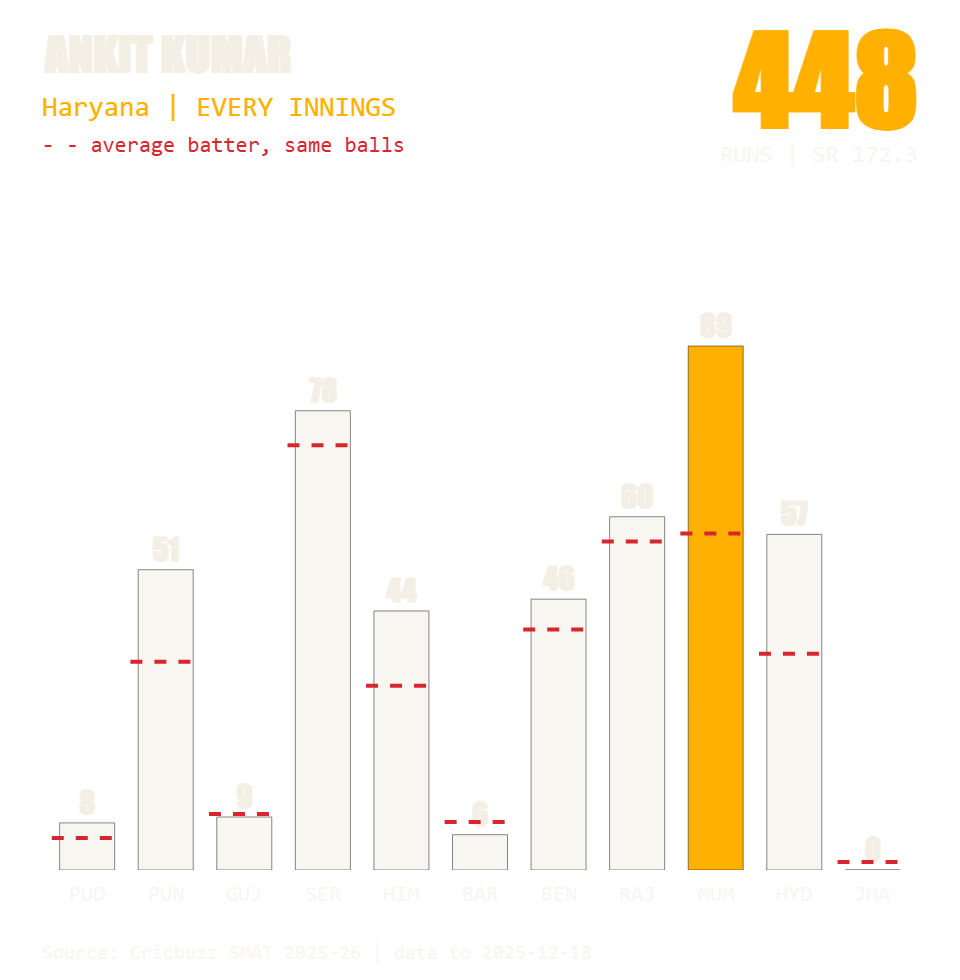
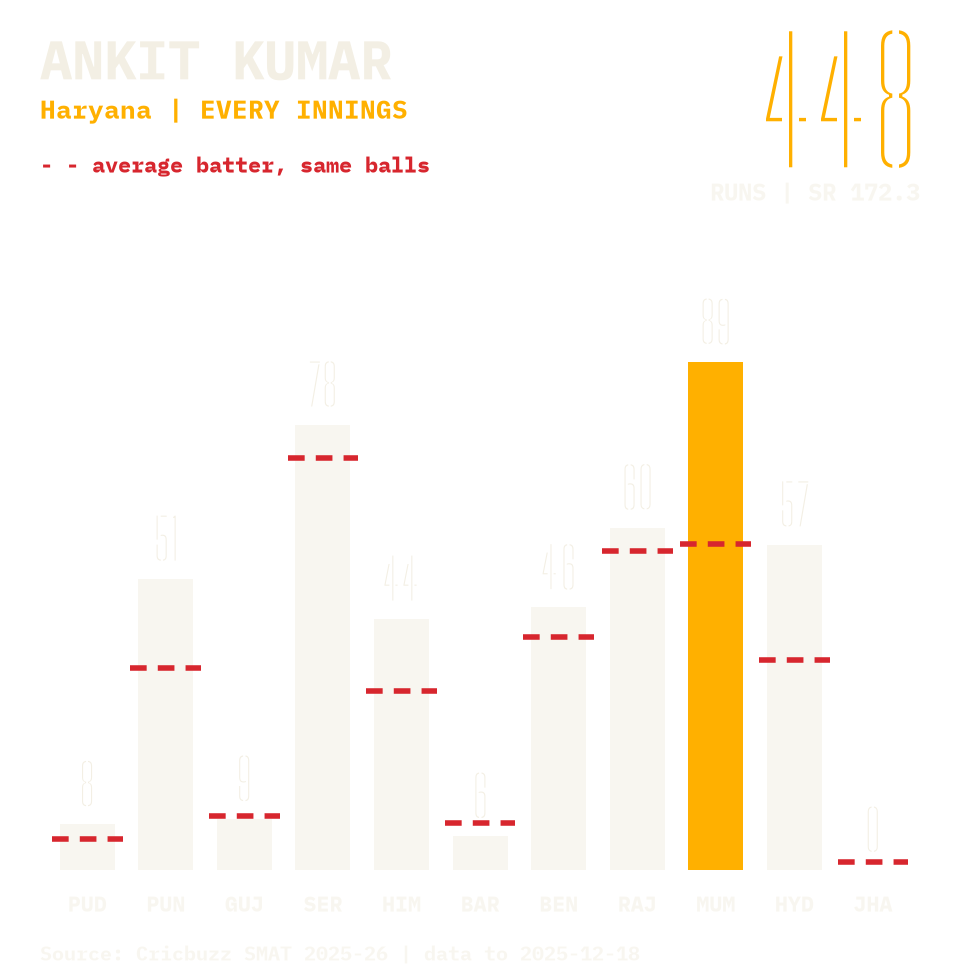
scouting charts: matplotlib + reel TTFs (shared Canvas in viz/match_reel), same CLI and outputs

diff --git a/src/cricket_analytics/scouting/charts.py b/src/cricket_analytics/scouting/charts.py
@@ -1,18 +1,16 @@
 """Reel PNGs for SMAT scouting: scout_innings (a player's innings in date order) and scout_rank (top 10 uncapped).
-Transparent, 960x980 by default. palette = {bg, ink, a1, a2}: ink text, a1 highlight, a2 second series, bg text on a1 bars."""
+Transparent, 960x980 by default, drawn with matplotlib + the reel TTFs (viz/match_reel.Canvas). palette = {bg, ink, a1, a2}: ink text, a1 highlight, a2 second series, bg text on a1 bars."""
 import json
 from pathlib import Path
 
+import matplotlib.colors as mc
 import pandas as pd
-import plotly.graph_objects as go
 
-from ..viz.video import AMBER, INK, MUTE, RED, num, short_name
+from ..viz.match_reel import PX, Canvas
+from ..viz.video import AMBER, INK, RED, num, short_name
 from . import reels
 from .smat2025 import ROOT
 
-# Fonts: families are tried in order; TTFs live in Edit Pipeline/assets/fonts (not installed system-wide => fallback renders).
-NUM_FONT = "Big Shoulders Stencil Display, Impact, 'Arial Narrow', sans-serif"
-LAB_FONT = "IBM Plex Mono, Consolas, monospace"
 DEFAULT = dict(bg="#111111", ink=INK, a1=AMBER, a2=RED)
 CHARTS = ("scout_innings", "scout_rank")
 
@@ -32,35 +30,24 @@ def parse_size(s: str | None) -> tuple[int, int]:
         raise ValueError(f"--size must look like 1080x1920, not {s!r}")
 
 
-def _mute(c: str) -> str:
-    return c if not c.startswith("#") or len(c) != 7 else f"rgba({int(c[1:3], 16)},{int(c[3:5], 16)},{int(c[5:7], 16)},0.55)"
+def _rgba(c, a=0.55):
+    return mc.to_rgba(c, a)
 
 
-def _base(w, h, pal, title, sub, big, big_label, note, bottom=70):
-    """Header (title, subtitle, one big number) and footnote placed in pixels; returns (fig, txt) where txt(text, px_x, px_y, ...)."""
-    k = w / 960
-    mt, mb, mx = int(215 * k), int(bottom * k), int(40 * k)
-    fig = go.Figure(layout=dict(width=w, height=h, paper_bgcolor="rgba(0,0,0,0)", plot_bgcolor="rgba(0,0,0,0)",
-                                font=dict(family=LAB_FONT, color=pal["ink"], size=30), showlegend=False, hovermode=False,
-                                margin=dict(l=mx, r=mx, t=mt, b=mb), bargap=0.25))
-    fig.update_xaxes(visible=False, fixedrange=True)
-    fig.update_yaxes(visible=False, fixedrange=True)
-    pw, ph = w - 2 * mx, h - mt - mb
-
-    def txt(t, x, y, size, color, font, anchor="left", yanchor="top"):  # x, y = figure pixels
-        fig.add_annotation(text=t, x=(x - mx) / pw, y=1 + (mt - y) / ph, xref="paper", yref="paper", xanchor=anchor,
-                           yanchor=yanchor, showarrow=False, font=dict(size=int(size * k), color=color, family=font))
-    txt(f"<b>{title.upper()}</b>", mx, 24, 46, pal["ink"], NUM_FONT)
-    txt(sub, mx, 88, 28, pal["a1"], LAB_FONT)
+def _header(cv, title, sub, big, big_label, note):
+    """Title, subtitle, one big number (top right) and the footnote; returns the top of the plot area in pixels."""
+    k, w = cv.k, cv.w
+    cv.text(40 * k, 24 * k, title.upper(), 54, "lab")
+    cv.text(40 * k, 92 * k, sub, 26, "lab", cv.pal["a1"])
     if big:
-        txt(f"<b>{big}</b>", w - mx, 4, 120, pal["a1"], NUM_FONT, "right")
-        txt(big_label, w - mx, 138, 24, _mute(pal["ink"]), LAB_FONT, "right")
-    txt(note, mx, h - 14 * k, 20, _mute(pal["ink"]), LAB_FONT, "left", "bottom")
-    return fig, txt
+        cv.text(w - 40 * k, 0, big, 170, "num", cv.pal["a1"], "right")
+        cv.text(w - 40 * k, 176 * k, big_label, 24, "lab", alpha=0.55, ha="right")
+    cv.text(40 * k, cv.h - 14 * k, note, 20, "lab", alpha=0.55, va="bottom")
+    return 215 * k
 
 
-def innings(player: str, w=960, h=980, palette=None) -> go.Figure:
-    pal = parse_palette(palette) if isinstance(palette, str) or palette is None else palette
+def innings(cv, player: str):
+    pal, k = cv.pal, cv.k
     c = reels.resolve(player)
     role = c["role"]
     d = pd.read_parquet(ROOT / (("batting" if role == "bat" else "bowling") + ".parquet"))
@@ -74,27 +61,27 @@ def innings(player: str, w=960, h=980, palette=None) -> go.Figure:
     big = f"{int(t.runs)}" if role == "bat" else f"{int(t.wkts)}"
     lab = f"RUNS | SR {t.sr}" if role == "bat" else f"WICKETS | ECON {t.econ}"
     note = f"Source: Cricbuzz SMAT 2025-26 | data to {str(reels._games().date.max())[:10]}"
-    fig, txt = _base(w, h, pal, c["name"], f"{t.team} | {'EVERY INNINGS' if role == 'bat' else 'EVERY SPELL'}", big, lab, note, bottom=110)
-    x = list(range(len(d)))
-    labels = [f"<b>{int(v)}</b>" for v in y]
-    fig.add_bar(x=x, y=y, marker_color=[pal["a1"] if i == best else _mute(pal["ink"]) for i in x], text=labels, textposition="outside",
-                textfont=dict(size=30, family=NUM_FONT, color=pal["ink"]), cliponaxis=False, width=0.7)
-    for i, o in enumerate(opp):
-        fig.add_annotation(text=short_name(o)[:3].upper(), x=i, y=0, yshift=-24, showarrow=False, font=dict(size=22, color=_mute(pal["ink"])))
+    top = _header(cv, c["name"], f"{t.team} | {'EVERY INNINGS' if role == 'bat' else 'EVERY SPELL'}", big, lab, note)
     ymax = max(y.max(), 1) * 1.25
-    if role == "bat":  # a league-average batter's runs off the same balls: dashed tick over each bar
-        lg = reels.league()["sr"]
-        for i, b in enumerate(d.balls):
-            fig.add_shape(type="line", x0=i - 0.45, x1=i + 0.45, y0=lg * b / 100, y1=lg * b / 100, line=dict(color=pal["a2"], width=4, dash="dash"))
+    lg = reels.league()["sr"] if role == "bat" else None
+    if lg:
         ymax = max(ymax, max(lg * d.balls / 100) * 1.25)
-        txt("- - average batter, same balls", 40 * w / 960, 130, 22, pal["a2"], LAB_FONT)
-    fig.update_yaxes(range=[0, ymax])
-    fig.update_xaxes(range=[-0.6, len(d) - 0.4])
-    return fig
+        cv.text(40 * k, 150 * k, "- - average batter, same balls", 22, "lab", pal["a2"])
+    ax = cv.axes(40 * k, top + 20 * k, cv.w - 40 * k, cv.h - 110 * k)
+    ax.set_xlim(-0.6, len(d) - 0.4), ax.set_ylim(0, ymax), ax.axis("off")
+    x = list(range(len(d)))
+    ax.bar(x, y, width=0.7, color=[pal["a1"] if i == best else _rgba(pal["ink"]) for i in x])
+    for i, v in enumerate(y):
+        ax.text(i, v + ymax * 0.01, f"{int(v)}", ha="center", va="bottom", fontproperties=cv.num, fontsize=56 * k * PX, color=pal["ink"])
+    for i, o in enumerate(opp):
+        ax.text(i, -ymax * 0.03, short_name(o)[:3].upper(), ha="center", va="top", fontproperties=cv.lab, fontsize=22 * k * PX, color=_rgba(pal["ink"]))
+    if lg:  # a league-average batter's runs off the same balls: dashed tick over each bar
+        for i, b in enumerate(d.balls):
+            ax.plot([i - 0.45, i + 0.45], [lg * b / 100] * 2, color=pal["a2"], lw=4 * k, ls=(0, (3, 2)))
 
 
-def rank(role: str, focus: str | None = None, w=960, h=980, palette=None, n: int = 10) -> go.Figure:
-    pal = parse_palette(palette) if isinstance(palette, str) or palette is None else palette
+def rank(cv, role: str, focus: str | None = None, n: int = 10):
+    pal, k = cv.pal, cv.k
     t = reels.table(role)
     t = t[t.t20i == "uncapped"]
     rows = t.head(n)
@@ -108,33 +95,33 @@ def rank(role: str, focus: str | None = None, w=960, h=980, palette=None, n: int
         if f["cricbuzz_id"] not in set(rows.cricbuzz_id):
             rows = pd.concat([rows.head(n - 1), fr])
         big = f"#{int(fr.rank_uncapped.iloc[0])}"
-    fig, _ = _base(w, h, pal, "Uncapped " + ("batters" if role == "bat" else "bowlers"), "SMAT 2025-26 | RANKED BY SCORE", big, f"OF {len(t)} UNCAPPED" if big else "", f"Source: Cricbuzz SMAT 2025-26 | {lab.lower()}")
+    top = _header(cv, "Uncapped " + ("batters" if role == "bat" else "bowlers"), "SMAT 2025-26 | RANKED BY SCORE", big,
+                  f"OF {len(t)} UNCAPPED" if big else "", f"Source: Cricbuzz SMAT 2025-26 | {lab.lower()}")
     rows = rows.iloc[::-1]
     hl = [f is not None and i == f["cricbuzz_id"] for i in rows.cricbuzz_id]
-    fig.add_bar(y=list(range(len(rows))), x=rows.score, orientation="h",
-                marker_color=[pal["a1"] if x else _mute(pal["ink"]) for x in hl], text=[f"{num(v, 1)}" for v in rows.score], textposition="outside",
-                textfont=dict(size=30, family=NUM_FONT, color=pal["ink"]), cliponaxis=False)
-    for i, (r_, nm) in enumerate(zip(rows.rank_uncapped, rows["name"])):  # labels drawn by hand so the plot area stays aligned with the header
-        fig.add_annotation(text=f"{int(r_)}. {short_name(nm)[:16]}", x=0.355, y=i, xref="paper", yref="y", xanchor="right", showarrow=False,
-                           font=dict(size=26, family=LAB_FONT, color=pal["ink"]))
-    fig.update_xaxes(domain=[0.36, 1])
-    fig.update_xaxes(range=[0, rows.score.max() * 1.25])
-    return fig
+    left = 40 * k + 370 * k
+    ax = cv.axes(left, top + 20 * k, cv.w - 40 * k, cv.h - 60 * k)
+    ax.axis("off")
+    ys = list(range(len(rows)))
+    xmax = rows.score.max() * 1.3
+    ax.set_xlim(0, xmax), ax.set_ylim(-0.6, len(rows) - 0.4)
+    ax.barh(ys, rows.score, height=0.75, color=[pal["a1"] if x else _rgba(pal["ink"]) for x in hl])
+    for i, (v, r_, nm) in enumerate(zip(rows.score, rows.rank_uncapped, rows["name"])):
+        ax.text(v + xmax * 0.01, i, num(v, 1), ha="left", va="center", fontproperties=cv.num, fontsize=56 * k * PX, color=pal["ink"])
+        ax.text(-xmax * 0.02, i, f"{int(r_)}. {short_name(nm)[:16]}", ha="right", va="center", fontproperties=cv.lab, fontsize=26 * k * PX, color=pal["ink"])
 
 
 def render(chart: str, png: Path, size: str | None = None, palette: str | None = None, **kw):
     w, h = parse_size(size)
-    pal = parse_palette(palette)
+    cv = Canvas(w, h, parse_palette(palette), kw.get("fonts"))
     if chart == "scout_innings":
         if not kw.get("player"):
             raise ValueError("scout_innings needs --player")
-        fig = innings(kw["player"], w, h, pal)
+        innings(cv, kw["player"])
     elif chart == "scout_rank":
         if kw.get("role") not in ("bat", "bowl"):
             raise ValueError("scout_rank needs --role bat|bowl")
-        fig = rank(kw["role"], kw.get("focus"), w, h, pal)
+        rank(cv, kw["role"], kw.get("focus"))
     else:
         raise ValueError(f"unknown scouting chart {chart!r}; use {' or '.join(CHARTS)}")
-    Path(png).parent.mkdir(parents=True, exist_ok=True)
-    fig.write_image(str(png), width=w, height=h, scale=1)
-    return fig
+    return cv.save(png)

diff --git a/src/cricket_analytics/viz/match_reel.py b/src/cricket_analytics/viz/match_reel.py
@@ -139,3 +139,41 @@ def draw(kind, x, png, w, h, pal, team=None, marks=(), inn=1, upto=None, thru=""
     fig.savefig(png, dpi=100, transparent=True)
     plt.close(fig)
     return status
+
+
+class Canvas:
+    """A transparent figure of w x h pixels with the reel fonts: `text()` places text in pixels (y down), `axes()` makes a plot box.
+    Shared by the match, scouting and wpa charts so every reel chart looks the same."""
+
+    def __init__(self, w, h, pal=None, font_dir=None):
+        self.w, self.h, self.pal = w, h, {**DEFAULT_PALETTE, **(pal or {})}
+        self.k = min(w / 960, h / 980)
+        self.num, self.lab, self.status = _fonts(font_dir)
+        self.fig = plt.figure(figsize=(w / 100, h / 100), dpi=100)
+        self.fig.patch.set_alpha(0)
+        self.ov = self.fig.add_axes([0, 0, 1, 1])
+        self.ov.set_xlim(0, w), self.ov.set_ylim(h, 0), self.ov.axis("off"), self.ov.patch.set_alpha(0)
+
+    def text(self, x, y, s, size, font="lab", color=None, ha="left", va="top", alpha=1.0, **kw):
+        """size in px at 960 wide; font 'num' (Big Shoulders) or 'lab' (IBM Plex Mono)."""
+        self.ov.text(x, y, s, fontproperties=self.num if font == "num" else self.lab, fontsize=size * self.k * PX,
+                     color=color or self.pal["ink"], ha=ha, va=va, alpha=alpha, **kw)
+
+    def axes(self, l, t, r, b):
+        """Plot box with pixel edges (left, top, right, bottom); no frame, no ticks."""
+        ax = self.fig.add_axes([l / self.w, 1 - b / self.h, (r - l) / self.w, (b - t) / self.h])
+        ax.patch.set_alpha(0)
+        for s in ax.spines.values():
+            s.set_visible(False)
+        ax.tick_params(length=0, colors=self.pal["ink"])
+        return ax
+
+    def style_ticks(self, ax, size=28):
+        for t in ax.get_xticklabels() + ax.get_yticklabels():
+            t.set_fontproperties(self.lab), t.set_fontsize(size * self.k * PX), t.set_color(self.pal["ink"])
+
+    def save(self, png):
+        Path(png).parent.mkdir(parents=True, exist_ok=True)
+        self.fig.savefig(png, dpi=100, transparent=True)
+        plt.close(self.fig)
+        return self.status
